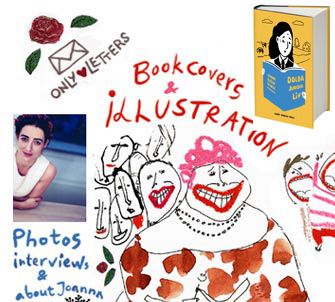
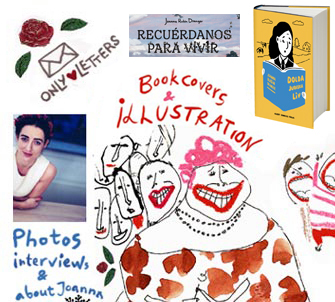
This and that

Changed region(s): [[0.0299, 0.0298, 0.8657, 0.5364]]

diff --git a/index.html b/index.html
@@ -53,11 +53,11 @@ function MM_swapImage() { //v3.0
       <br>
       <TABLE WIDTH=854 BORDER=0 CELLPADDING=0 CELLSPACING=0>
         <TR>
-          <TD> <IMG SRC="img/images/main_x_01.jpg" ALT="" WIDTH=335 HEIGHT=302 border="0" usemap="#Map5"></TD>
+          <TD> <IMG SRC="img/images/main_x_01.jpg" ALT="" WIDTH=335 HEIGHT=302 border="0" style="border: 1px solid red" usemap="#Map5"></TD>
           <TD COLSPAN=3> <TABLE WIDTH=314 BORDER=0 CELLPADDING=0 CELLSPACING=0>
             <TR>
               <TD ROWSPAN=2> <IMG SRC="img/images/main_x_02_01.jpg" ALT="" WIDTH=210 HEIGHT=302 border="0" usemap="#Map9"></TD>
-              <TD> <a href="https://triart.se/streama/froken-markvardig-karriaren" target="_parent"><IMG SRC="img/gumma_anim.gif" ALT="" WIDTH=104 HEIGHT=124 border="0"></a></TD>
+              <TD> <a href="https://www.folketsbio.se/film/froken-markvardig-karriaren/" target="_blank"><IMG SRC="img/gumma_anim.gif" ALT="" WIDTH=104 HEIGHT=124 border="0"></a></TD>
             </TR>
             <TR>
               <TD> <IMG SRC="img/images/main_x_02_03.jpg" ALT="" WIDTH=104 HEIGHT=178 border="0" usemap="#Map10"></TD>
@@ -82,7 +82,7 @@ function MM_swapImage() { //v3.0
 
 
 <area shape="rect" coords="3,99,186,286" href="https://www.albertbonniersforlag.se/bocker/269186/ihagkom-oss-till-liv/" target="_blank">
-<area shape="rect" coords="0,0,184,91" href="https://www.albertbonniersforlag.se/bocker/269186/ihagkom-oss-till-liv/" target="_blank">
+<area shape="rect" coords="0,0,184,91" href="https://www.penguinrandomhouse.com/books/769055/remember-us-to-life-by-joanna-rubin-dranger/" target="_blank">
 </map>
 
 
@@ -104,15 +104,19 @@ function MM_swapImage() { //v3.0
 <area shape="rect" coords="24,108,120,226" href="graphic_novels/index.html" target="_parent">
 </map>
 <map name="Map5">
- <area shape="rect" coords="260,0,360,120" href="https://www.albertbonniersforlag.se/bocker/296094/dolda-judiska-liv/" target="_blank">
+
+<area shape="rect" coords="128,0,240,60" href="https://www.planetadelibros.com/libro-recuerdanos-para-vivir/406175" target="_blank">
+<area shape="rect" coords="260,0,360,120" href="https://www.albertbonniersforlag.se/bocker/296094/dolda-judiska-liv/" target="_blank">
  <area shape="rect" coords="6,6,117,99" href="mailto:info@joannarubindranger.com">
  <area shape="poly" coords="319,301,335,254,328,140,253,82,179,46,127,66,122,99,105,106,91,234,112,301,317,297" href="cover_illustr/covers/index.html" target="_parent">
  <area shape="poly" coords="108,298,88,228,91,111,6,111,3,300,106,298" href="joanna/index.html" target="_parent">
 </map>
 <map name="Map6">
-<area shape="rect" coords="97,3,334,98" href="cover_illustr/covers/index.html" target="_parent">
+
 <area shape="rect" coords="11,105,163,278" href="stamps/index.html?image=06" target="_parent">
 <area shape="rect" coords="169,168,248,278" href="joanna/index.html" target="_parent">
+
+<area shape="rect" coords="250,30,330,130" href="https://gatosueco.es/catalogo/la-meteorica-carrera-de-dona-excepcional/" target="_blank">
 <area shape="poly" coords="313,281,331,220,330,149,266,129,250,170,249,263,312,281" href="childr_books/index.html" target="_blank">
 </map>
 <map name="Map7">

diff --git a/joanna/interv.html b/joanna/interv.html
@@ -84,7 +84,7 @@ SPAN.textit		{ font-style: italic  }
 
 <a href="https://gatosueco.es/catalogo/la-meteorica-carrera-de-dona-excepcional/" target="_blank">La meteórica carrera de Doña Excepcional</a> &#8211; Gatosueco<br />
 
-<p><strong>HERE YOU FIND SWEDISH PRESS FROM BEFORE 2009:</strong></p>
+<p><strong>BELOW YOU FIND SWEDISH PRESS FROM BEFORE 2009:</strong></p>
 
 <br />
 <strong>Miss Remarkable &amp; her career / Fröken Märkvärdig &amp; Karriären</strong></p>
